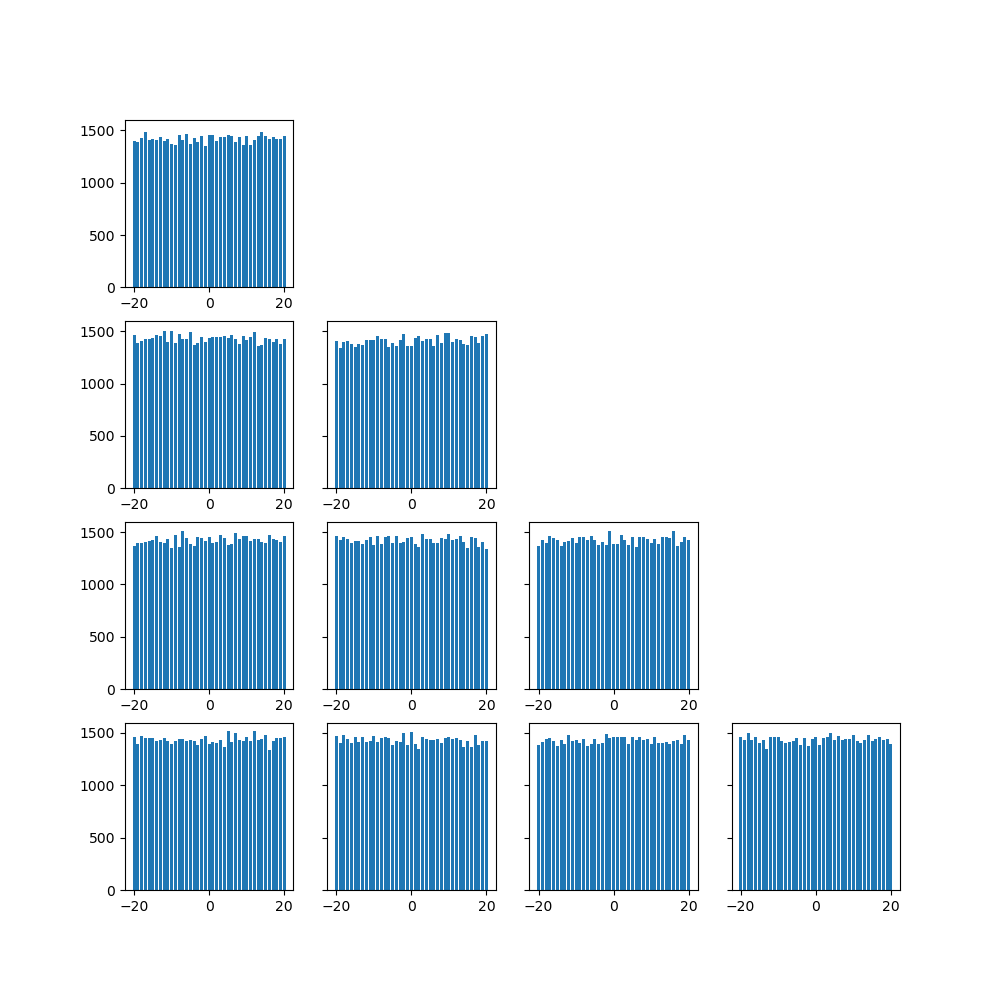
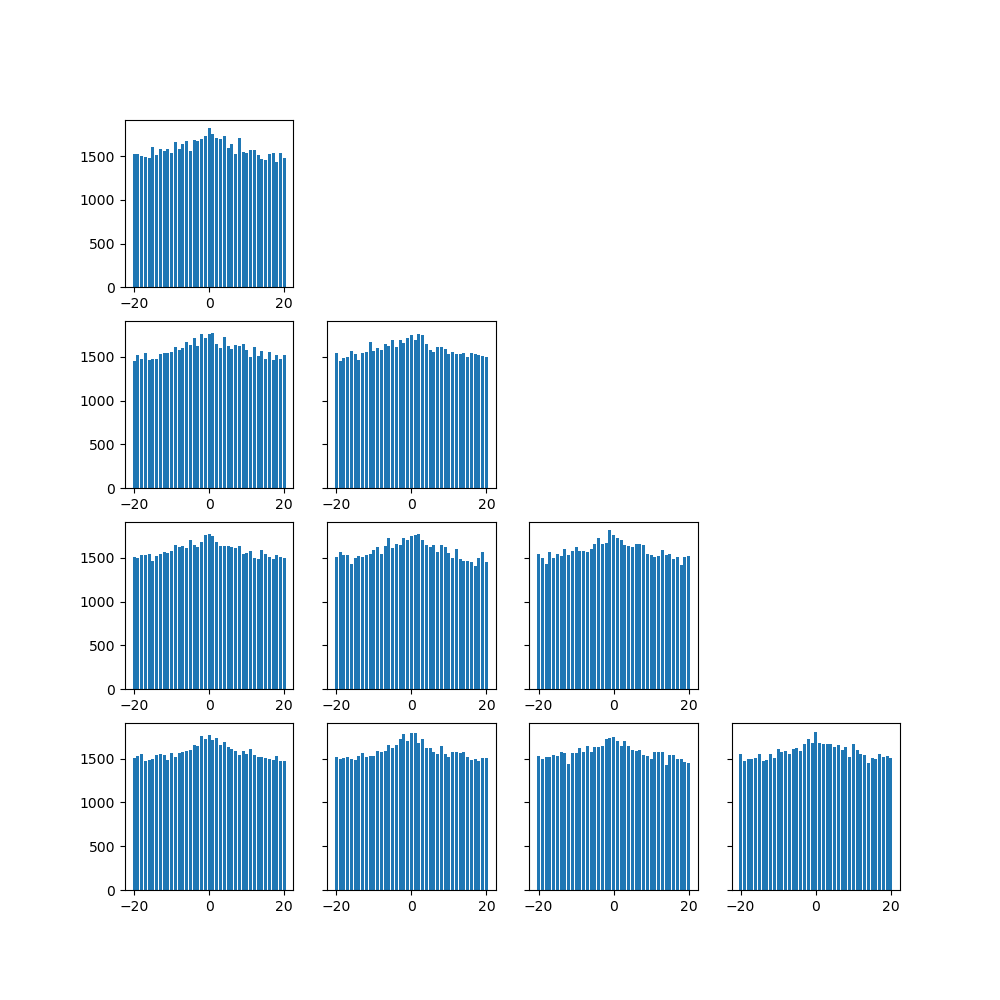
Sim Homogeneous Pool Partially Working Homogeneous pool function is now partially working. It can generate spikes with exponentially decaying correlations. The catch is that the alpha somehow needs to be very high to have the sim_random_walk generate the random process with high enough variance comp

diff --git a/sim_field/funcs.py b/sim_field/funcs.py
@@ -158,17 +158,19 @@ def sim_homogeneous_pool(n_neurons=5, rate=20, n_seconds=1, fs=1000,
 
     # turn rates into spikes
     for j_bin in range(len(rand_process)):
-      firing_rate[:, j_bin] = np.random.normal(size=n_neurons, loc=rand_process[j_bin],
+        firing_rate[:, j_bin] = np.random.normal(size=n_neurons, loc=rand_process[j_bin],
                                                scale=np.sqrt(rand_process[j_bin]))
+        # firing_rate[:, j_bin] = np.random.normal(size=n_neurons, loc=rand_process[j_bin],
+        #                                        scale=0.01)
                                       
-      for i_neuron in range(n_neurons):
-          if firing_rate[i_neuron, j_bin] / fs > np.random.uniform():
-              spikes[i_neuron, j_bin] = 1
+        for i_neuron in range(n_neurons):
+            if firing_rate[i_neuron, j_bin] / fs > np.random.uniform():
+                spikes[i_neuron, j_bin] = 1
     
     # define time vector
     # time = np.arange(0, n_seconds, 1/fs)
 
-    return firing_rate, spikes
+    return firing_rate, spikes, rand_process
 
 def get_correlation_matrices(n_neurons, firing_rate, xcorr_scalar, firing_rate_std):
     # C = (c_i,j) the matrix of covariances

diff --git a/scripts/corr_spikes_sims.py b/scripts/corr_spikes_sims.py
@@ -27,7 +27,7 @@ N_NEURONS = 5 # number of neurons
 
 N_SECONDS = 3600
 FS = 1000
-ALPHA = 1.
+ALPHA = 800000.
 TAU_C = 1.0E-2
 CHUNK_SIZE = 5
 
@@ -63,9 +63,15 @@ def simulate_spikes_homogeneous_pool():
     for i_chunk in range(int(N_SECONDS / CHUNK_SIZE)):
         n_timepoints = CHUNK_SIZE * FS
         firing_rate[:,i_chunk*n_timepoints:(i_chunk+1)*n_timepoints], \
-                    spikes[:,i_chunk*n_timepoints:(i_chunk+1)*n_timepoints] = \
+                    spikes[:,i_chunk*n_timepoints:(i_chunk+1)*n_timepoints],_ = \
                     sim_homogeneous_pool(rate=20, fs=FS, n_seconds=CHUNK_SIZE, \
                     alpha = ALPHA, tau_c=TAU_C)
+                
+    _,_, rand_process = sim_homogeneous_pool(rate=20, fs=FS, n_seconds=CHUNK_SIZE, \
+                    alpha = ALPHA, tau_c=TAU_C)
+    plt.plot(rand_process[:1000], linewidth=0.5)
+    plt.savefig(pjoin(FIGURE_PATH,'homogeneous_pool_random_process_plot.png'))
+    plt.close('all')
 
     # Plot instantaneous firing rates
     plt.plot(firing_rate.T[:1000,:], linewidth=0.5)
